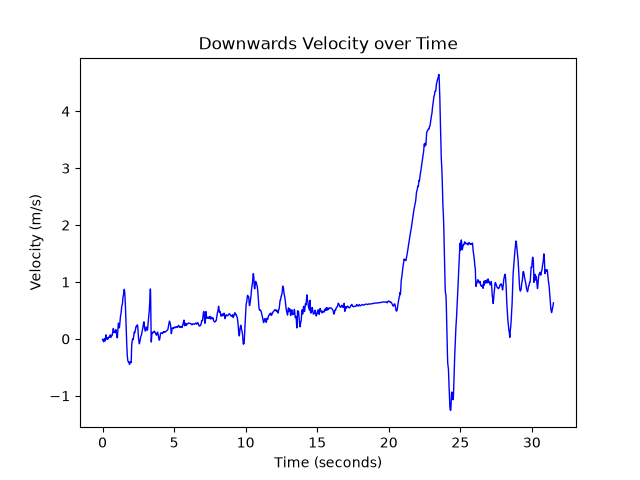
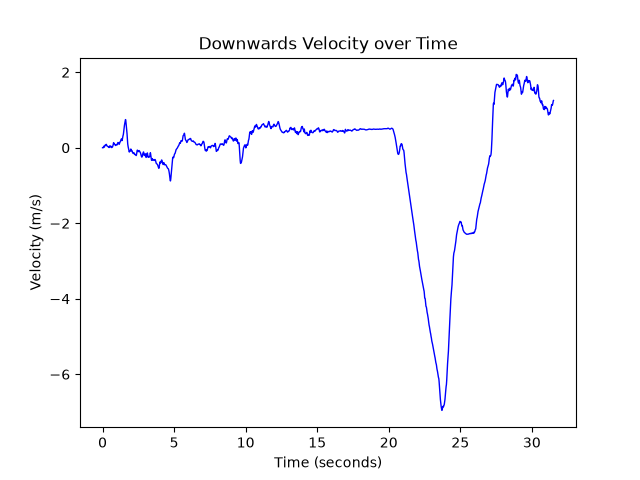
version history

diff --git a/src/main.py b/src/main.py
@@ -30,26 +30,32 @@ def rotate_all():
 
 def integrate():
     rotated = rotate_all()
-    vertical = rotated[:, -1]
-    # print(vertical)
-    velocity = cumtrapz(vertical) * 0.01
+    # velocity = rotated[:, -2] # -1, -2 works
 
-    v_t_table = []
+    to_find = [rotated[:, -2], rotated[:, -1]]
+    v_t_y_table, v_t_z_table = [], []
+    active_table = v_t_y_table
 
-    i = 0
-    for j in velocity:
-        arr =[i * 0.01, j]
-        v_t_table.append(arr)
-        i += 1
+    for velo in to_find:
+        velocity = cumtrapz(velo) * 0.01
 
-    v_t_table = np.array(v_t_table)
-    time = v_t_table[:, 0]
-    velocity = v_t_table[:, 1]
-    return velocity, time
+        i = 0
+        for j in velocity:
+            arr = [i * 0.01, j]
+            active_table.append(arr)
+            i += 1
+
+        active_table = np.array(active_table)
+        time = active_table[:, 0]
+        velocity = active_table[:, 1]
+        active_table = v_t_z_table
+
+    return np.array(v_t_y_table)[:, 1], np.array(v_t_z_table)[:, 1], time
 
 def graph(vt):
-    velocity, time = vt
-    plt.plot(time, velocity, label="Velocity", color="blue", linewidth=1)
+    velo_y, velo_z, time = vt
+
+    plt.plot(time, velo_z, label="Velocity", color="blue", linewidth=1)
     plt.xlabel("Time (seconds)")
     plt.ylabel("Velocity (m/s)")
     plt.title("Downwards Velocity over Time")
@@ -58,11 +64,11 @@ def graph(vt):
 
 # Go to middle of slope and fetch gradient
 def find_slope_midsect(vt):
-    velo, time = vt
+    velo_y, velo, time = vt
     diff = np.diff(velo)
     peak = np.argmax(velo)
     baseline = np.median(velo[(peak - 350):(peak - 250)])
-    slope = velo[peak] -  baseline
+    slope = velo[peak] - baseline
 
     low = baseline + slope * 0.2
     high = baseline + slope * 0.9
